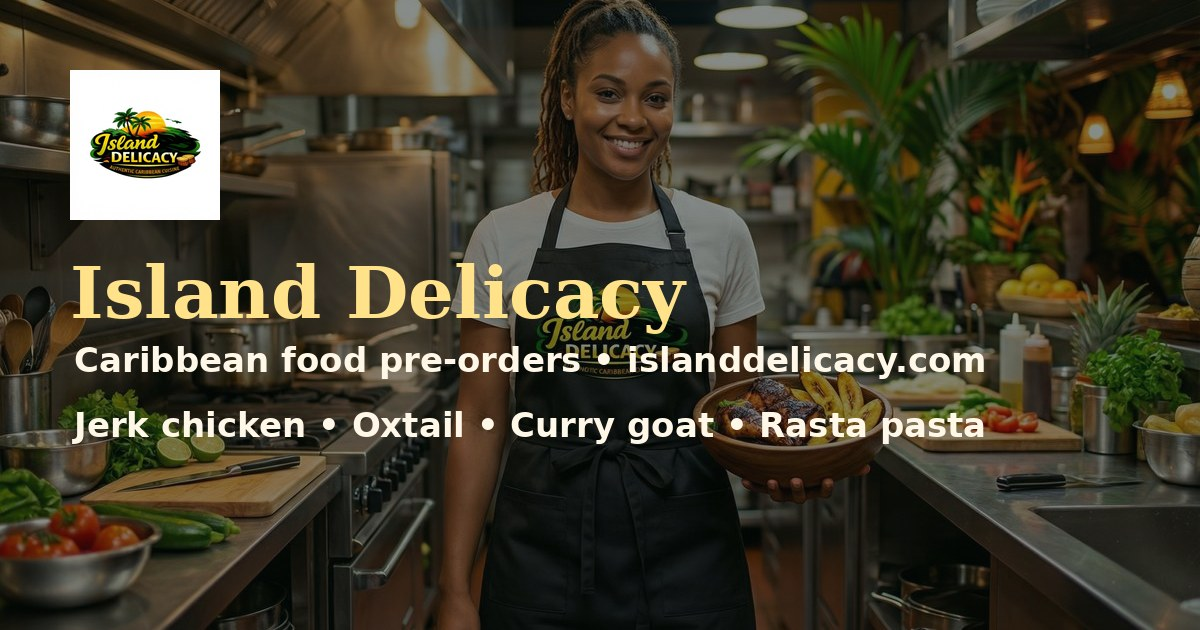
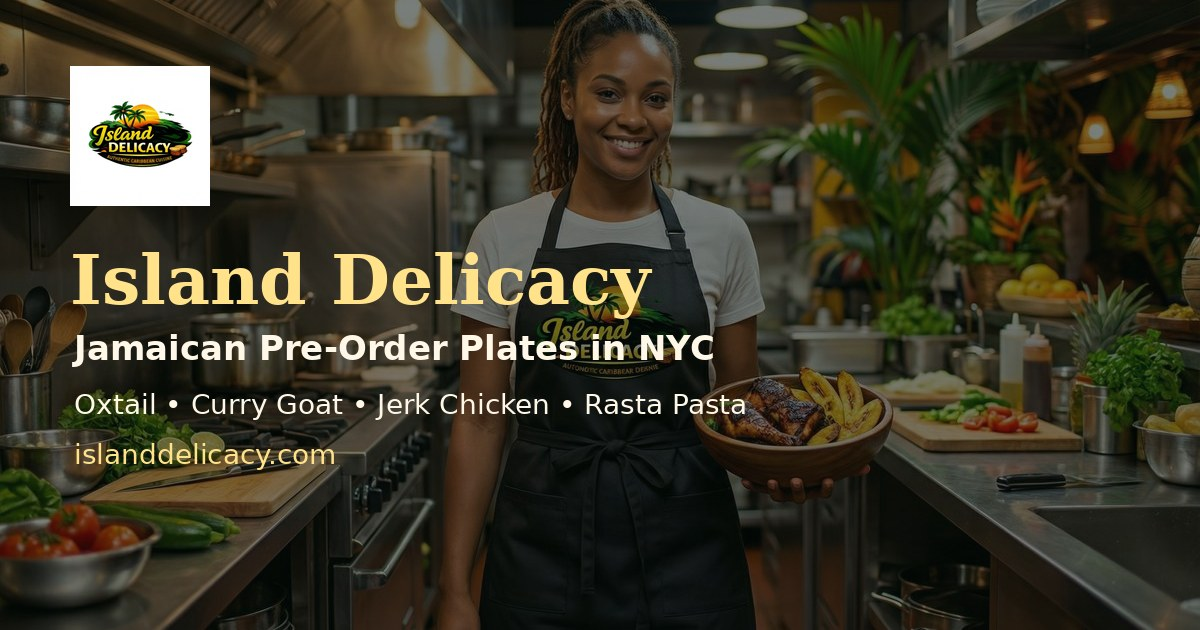
Position Island Delicacy as Jamaican NYC plates

Changed region(s): [[0.0617, 0.3921, 0.8325, 0.6032], [0.0617, 0.6333, 0.8325, 0.754], [0.0617, 0.0905, 0.185, 0.3619]]

diff --git a/index.html b/index.html
@@ -4,10 +4,10 @@
   <meta charset="utf-8" />
   <meta name="viewport" content="width=device-width, initial-scale=1" />
   <meta name="theme-color" content="#07140f" />
-  <title>Island Delicacy | Caribbean Food Pre-Orders</title>
-  <meta name="description" content="Island Delicacy serves Caribbean pre-order plates with jerk chicken, oxtail, curry goat, rasta pasta, escovitch fish, rice and peas, plantains, and sides. Call or text (929) 742-4202." />
+  <title>Island Delicacy | Jamaican Pre-Order Plates in NYC</title>
+  <meta name="description" content="Island Delicacy Jamaican Kitchen serves NYC Jamaican pre-order plates with oxtail, curry goat, jerk chicken, rasta pasta, and Caribbean comfort food made to order. Call or text (929) 742-4202." />
   <meta name="robots" content="index, follow, max-image-preview:large" />
-  <meta name="keywords" content="Island Delicacy, Island Delicacy LLC, islanddelicacy.com, Caribbean food pre-order, Jamaican food plates, jerk chicken, oxtail, curry goat, rasta pasta, rice and peas" />
+  <meta name="keywords" content="Island Delicacy, Island Delicacy Jamaican Kitchen, Island Delicacy NYC Caribbean Plates, Island Delicacy LLC, islanddelicacy.com, Jamaican pre-order plates NYC, Caribbean food pre-order, Jamaican food plates, jerk chicken, oxtail, curry goat, rasta pasta, rice and peas" />
   <link rel="canonical" href="https://islanddelicacy.com/" />
   <link rel="icon" href="/favicon.ico" sizes="any" />
   <link rel="icon" type="image/png" href="/assets/icons/favicon-32.png" sizes="32x32" />
@@ -15,28 +15,28 @@
   <link rel="manifest" href="/site.webmanifest" />
 
   <meta property="og:type" content="website" />
-  <meta property="og:site_name" content="Island Delicacy" />
-  <meta property="og:title" content="Island Delicacy | Caribbean Food Pre-Orders" />
-  <meta property="og:description" content="Authentic Caribbean cuisine by pre-order. Call or text (929) 742-4202 to secure your plate." />
+  <meta property="og:site_name" content="Island Delicacy Jamaican Kitchen" />
+  <meta property="og:title" content="Island Delicacy | Jamaican Pre-Order Plates in NYC" />
+  <meta property="og:description" content="Authentic Jamaican pre-order plates in NYC: oxtail, curry goat, jerk chicken, rasta pasta, and Caribbean comfort food made to order." />
   <meta property="og:url" content="https://islanddelicacy.com/" />
   <meta property="og:image" content="https://islanddelicacy.com/assets/brand/share-card.jpg" />
   <meta property="og:image:width" content="1200" />
   <meta property="og:image:height" content="630" />
-  <meta property="og:image:alt" content="Island Delicacy Caribbean food pre-orders" />
+  <meta property="og:image:alt" content="Island Delicacy Jamaican Kitchen pre-order plates in NYC" />
   <meta name="twitter:card" content="summary_large_image" />
-  <meta name="twitter:title" content="Island Delicacy | Caribbean Food Pre-Orders" />
-  <meta name="twitter:description" content="Jerk chicken, oxtail, curry goat, rasta pasta, seafood, rice and peas, plantains, and more. Pre-order by call/text." />
+  <meta name="twitter:title" content="Island Delicacy | Jamaican Pre-Order Plates in NYC" />
+  <meta name="twitter:description" content="Oxtail, curry goat, jerk chicken, rasta pasta, and Jamaican comfort food made to order in NYC. Pre-order by call/text." />
   <meta name="twitter:image" content="https://islanddelicacy.com/assets/brand/share-card.jpg" />
 
   <script type="application/ld+json">
   {
     "@context": "https://schema.org",
     "@type": "Restaurant",
-    "name": "Island Delicacy",
+    "name": "Island Delicacy Jamaican Kitchen",
     "url": "https://islanddelicacy.com/",
     "image": "https://islanddelicacy.com/assets/brand/share-card.jpg",
     "logo": "https://islanddelicacy.com/assets/brand/logo.jpg",
-    "description": "Caribbean pre-order plates including jerk chicken, oxtail, curry goat, rasta pasta, seafood, rice and peas, plantains, and sides.",
+    "description": "Authentic Jamaican pre-order plates in NYC including oxtail, curry goat, jerk chicken, rasta pasta, seafood, rice and peas, plantains, and sides.",
     "telephone": "+19297424202",
     "email": "islanddelicacy@outlook.com",
     "servesCuisine": ["Caribbean", "Jamaican"],
@@ -45,7 +45,7 @@
       "https://www.instagram.com/islanddelicacyllc",
       "https://www.tiktok.com/@islanddelicacyllc"
     ],
-    "areaServed": "Pre-order pickup/delivery area confirmed by phone or text"
+    "areaServed": "NYC pickup/delivery area confirmed by phone or text"
   }
   </script>
   <script type="application/ld+json">
@@ -55,10 +55,10 @@
       {
         "@type": "WebSite",
         "@id": "https://islanddelicacy.com/#website",
-        "name": "Island Delicacy",
-        "alternateName": ["Island Delicacy LLC", "islanddelicacy.com"],
+        "name": "Island Delicacy Jamaican Kitchen",
+        "alternateName": ["Island Delicacy", "Island Delicacy LLC", "Island Delicacy Jamaican Kitchen", "Island Delicacy NYC Caribbean Plates", "islanddelicacy.com"],
         "url": "https://islanddelicacy.com/",
-        "description": "Official Island Delicacy website for Caribbean food pre-orders."
+        "description": "Official Island Delicacy Jamaican Kitchen website for NYC Jamaican pre-order plates and Caribbean comfort food."
       },
       {
         "@type": "FAQPage",
@@ -66,17 +66,17 @@
         "mainEntity": [
           {
             "@type": "Question",
-            "name": "How do I order from Island Delicacy?",
-            "acceptedAnswer": {"@type": "Answer", "text": "Call or text Island Delicacy at (929) 742-4202 to confirm availability, pickup or delivery details, and payment."}
+            "name": "How do I order from Island Delicacy Jamaican Kitchen?",
+            "acceptedAnswer": {"@type": "Answer", "text": "Call or text Island Delicacy Jamaican Kitchen at (929) 742-4202 to confirm NYC availability, pickup or delivery details, and payment."}
           },
           {
             "@type": "Question",
             "name": "How much notice is required?",
-            "acceptedAnswer": {"@type": "Answer", "text": "Island Delicacy requests 24-hour advance notice because plates are prepared in limited daily quantities."}
+            "acceptedAnswer": {"@type": "Answer", "text": "Island Delicacy Jamaican Kitchen requests 24-hour advance notice because Jamaican pre-order plates are prepared in limited daily quantities."}
           },
           {
             "@type": "Question",
-            "name": "What food does Island Delicacy serve?",
+            "name": "What food does Island Delicacy Jamaican Kitchen serve?",
             "acceptedAnswer": {"@type": "Answer", "text": "The menu includes jerk chicken, curry chicken, fried chicken, brown stew chicken, oxtail, curry goat, rasta pasta, curry shrimp, escovitch fish, rice and peas, steamed cabbage, sweet plantains, and sides."}
           }
         ]
@@ -88,7 +88,7 @@
   <link rel="preconnect" href="https://fonts.googleapis.com">
   <link rel="preconnect" href="https://fonts.gstatic.com" crossorigin>
   <link href="https://fonts.googleapis.com/css2?family=Inter:wght@400;500;600;700;800;900&family=Playfair+Display:wght@700;800;900&display=swap" rel="stylesheet">
-  <link rel="stylesheet" href="css/styles.css?v=ia-polish-20260604" />
+  <link rel="stylesheet" href="css/styles.css?v=nyc-jamaican-20260604" />
 </head>
 <body>
   <a class="skip" href="#main">Skip to content</a>
@@ -96,7 +96,7 @@
   <header class="site-header">
     <a class="brand" href="#top" aria-label="Island Delicacy home">
       <img src="assets/brand/logo.jpg" alt="Island Delicacy logo" width="900" height="900" decoding="async" fetchpriority="high">
-      <span><strong>Island Delicacy</strong><small>Caribbean pre-order plates</small></span>
+      <span><strong>Island Delicacy</strong><small>Jamaican Kitchen • NYC plates</small></span>
     </a>
     <button class="menu-toggle" aria-expanded="false" aria-controls="nav" aria-label="Open menu">☰</button>
     <nav id="nav" class="nav" aria-label="Main navigation">
@@ -113,9 +113,9 @@
   <main id="main">
     <section id="top" class="hero">
       <div class="hero-copy">
-        <p class="eyebrow">Island Delicacy • Caribbean plates by pre-order</p>
-        <h1>Caribbean comfort food made for the plate you plan ahead for.</h1>
-        <p class="lead">Order rich, filling Caribbean plates with rice & peas and two sides. Favorites include jerk chicken, oxtail, curry goat, rasta pasta, curry shrimp, and escovitch fish.</p>
+        <p class="eyebrow">Island Delicacy Jamaican Kitchen • NYC pre-order plates</p>
+        <h1>Authentic Jamaican Pre-Order Plates in NYC</h1>
+        <p class="lead">Oxtail, curry goat, jerk chicken, rasta pasta, and Caribbean comfort food made to order. Each plate is built with rice & peas, bold seasoning, and sides worth planning ahead for.</p>
 
         <div class="mobile-call-card" aria-label="Fast phone contact">
           <span>Pre-order by call or text</span>
@@ -165,8 +165,8 @@
     <section id="menu" class="section menu-section">
       <div class="section-heading">
         <p class="eyebrow">Menu</p>
-        <h2>Clear Caribbean plate menu</h2>
-        <p>Every plate includes <strong>rice & peas</strong> plus your choice of <strong>2 sides</strong>: steamed cabbage, sweet plantains, or rasta pasta.</p>
+        <h2>Jamaican comfort plates made to order</h2>
+        <p>Every Jamaican pre-order plate includes <strong>rice & peas</strong> plus your choice of <strong>2 sides</strong>: steamed cabbage, sweet plantains, or rasta pasta.</p>
       </div>
       <div class="menu-layout refined-menu-layout">
         <aside class="menu-art order-guide" aria-label="Ordering guide">
@@ -220,16 +220,16 @@
     </section>
 
     <section id="faq" class="section faq-section">
-      <div class="section-heading"><p class="eyebrow">Island Delicacy FAQ</p><h2>Questions before you order</h2><p>Here are the quick details customers usually need before placing a Caribbean food pre-order.</p></div>
+      <div class="section-heading"><p class="eyebrow">Island Delicacy Jamaican Kitchen FAQ</p><h2>Questions before you order</h2><p>Here are the quick details customers need before placing a Jamaican pre-order plate request in NYC.</p></div>
       <div class="quick-cards faq-grid">
-        <article><span>Order</span><strong>How do I order?</strong><p>Call or text <a href="tel:+192****4202">(929) 742-4202</a> to confirm availability, pickup/delivery details, and payment.</p></article>
-        <article><span>Notice</span><strong>How early should I order?</strong><p>Island Delicacy requests 24-hour advance notice because meals are prepared in limited daily quantities.</p></article>
-        <article><span>Menu</span><strong>What food is available?</strong><p>Popular options include jerk chicken, oxtail, curry goat, rasta pasta, escovitch fish, rice & peas, plantains, and sides.</p></article>
+        <article><span>Order</span><strong>How do I order?</strong><p>Call or text <a href="tel:+192****4202">(929) 742-4202</a> to confirm NYC availability, pickup/delivery details, and payment.</p></article>
+        <article><span>Notice</span><strong>How early should I order?</strong><p>Island Delicacy Jamaican Kitchen requests 24-hour advance notice because meals are prepared in limited daily quantities.</p></article>
+        <article><span>Menu</span><strong>What food is available?</strong><p>Popular Jamaican plates include jerk chicken, oxtail, curry goat, rasta pasta, escovitch fish, rice & peas, plantains, and sides.</p></article>
       </div>
     </section>
 
     <section id="gallery" class="section gallery-section">
-      <div class="section-heading"><p class="eyebrow">From the kitchen</p><h2>See the plates and flavors</h2><p>Rich sauces, seasoned meats, rice & peas, plantains, and colorful sides bring the Island Delicacy menu to life.</p></div>
+      <div class="section-heading"><p class="eyebrow">From the kitchen</p><h2>See the plates and flavors</h2><p>Rich sauces, slow-cooked meats, rice & peas, plantains, and colorful sides bring Island Delicacy Jamaican Kitchen to life.</p></div>
       <div class="gallery-grid curated-gallery">
         <figure class="feature"><img src="assets/gallery/photo-2.jpg" alt="Island Delicacy kitchen photo with branded apron and plated food" width="1200" height="670" loading="lazy" decoding="async"><figcaption>Prepared plates</figcaption></figure>
         <figure class="tall"><img src="assets/gallery/photo-9.jpg" alt="Caribbean meal plate with rice, vegetables, and sauced entree" width="801" height="1000" loading="lazy" decoding="async"><figcaption>Signature plate</figcaption></figure>
@@ -239,8 +239,8 @@
     </section>
 
     <section id="contact" class="section contact-section">
-      <div class="contact-copy"><p class="eyebrow">Call, text, or email</p><h2>Secure your plate before quantities sell out.</h2><p>All meals require 24 hours advance notice. Call or text Island Delicacy to confirm availability, pickup/delivery details, and payment method.</p><div class="hero-actions"><a class="btn primary" href="tel:+19297424202">Call/Text (929) 742-4202</a><a class="btn secondary" href="mailto:islanddelicacy@outlook.com">Email Island Delicacy</a></div></div>
-      <div class="map-card" aria-label="Contact card"><img src="assets/brand/logo.jpg" alt="Island Delicacy logo" width="900" height="900" loading="lazy" decoding="async"><strong>Island Delicacy</strong><p>Authentic Caribbean cuisine by pre-order.</p><p class="big-phone">(929) 742-4202</p></div>
+      <div class="contact-copy"><p class="eyebrow">Call, text, or email</p><h2>Secure your plate before quantities sell out.</h2><p>All meals require 24 hours advance notice. Call or text Island Delicacy Jamaican Kitchen to confirm availability, pickup/delivery details, and payment method.</p><div class="hero-actions"><a class="btn primary" href="tel:+19297424202">Call/Text (929) 742-4202</a><a class="btn secondary" href="mailto:islanddelicacy@outlook.com">Email Jamaican Kitchen</a></div></div>
+      <div class="map-card" aria-label="Contact card"><img src="assets/brand/logo.jpg" alt="Island Delicacy Jamaican Kitchen logo" width="900" height="900" loading="lazy" decoding="async"><strong>Island Delicacy</strong><p>Jamaican pre-order plates in NYC.</p><p class="big-phone">(929) 742-4202</p></div>
     </section>
   </main>
 
@@ -249,7 +249,7 @@
     <a href="#menu">Menu</a>
   </div>
 
-  <footer><p>© <span id="year"></span> Island Delicacy. Caribbean food pre-orders.</p></footer>
-  <script src="js/main.js?v=ia-polish-20260604"></script>
+  <footer><p>© <span id="year"></span> Island Delicacy Jamaican Kitchen. Jamaican pre-order plates in NYC.</p></footer>
+  <script src="js/main.js?v=nyc-jamaican-20260604"></script>
 </body>
 </html>
